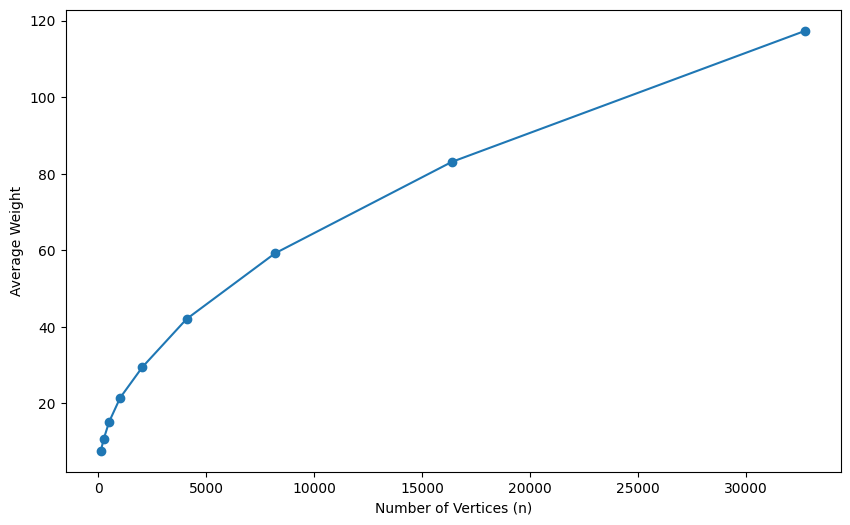
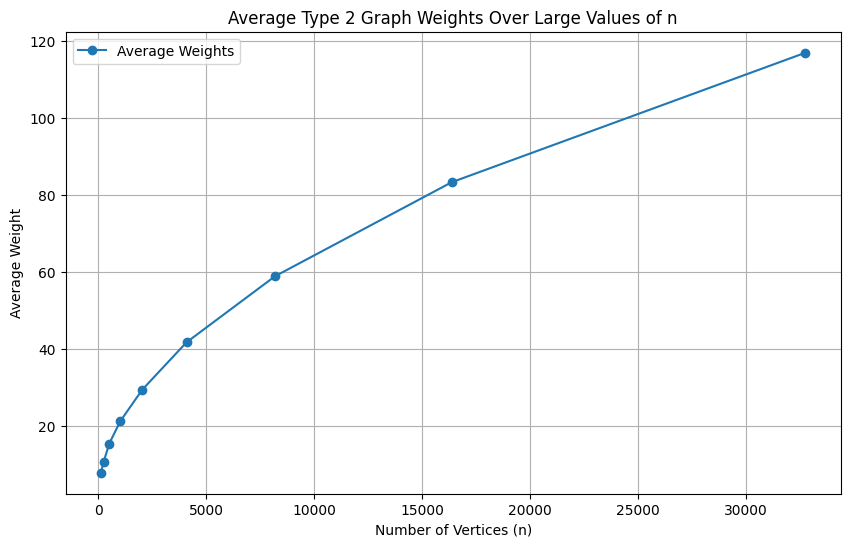
it starts with

diff --git a/rehualPrim.py b/rehualPrim.py
@@ -231,7 +231,7 @@ def figureGen(numtrials, dimension, type):
     plt.plot(sizes,MSTweights,label="Average Weights",marker='o')
     plt.xlabel("Number of Vertices (n)")
     plt.ylabel("Average Weight")
-    plt.title("Average Type",dimension,"Graph Weights Over Large Values of n")
+    plt.title(label="Average Type " + str(dimension) + " Graph Weights Over Large Values of n")
     plt.legend()
     plt.grid(True)
     plt.show()
